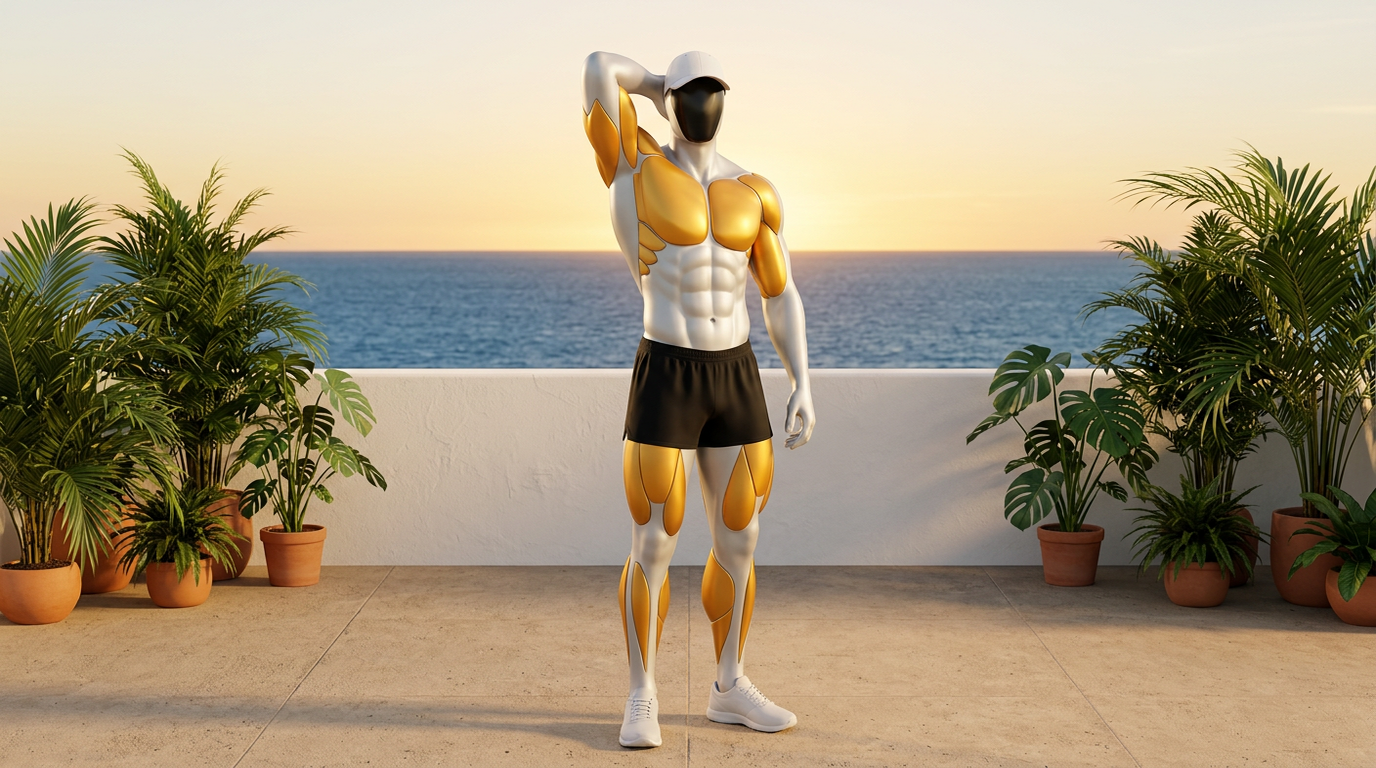
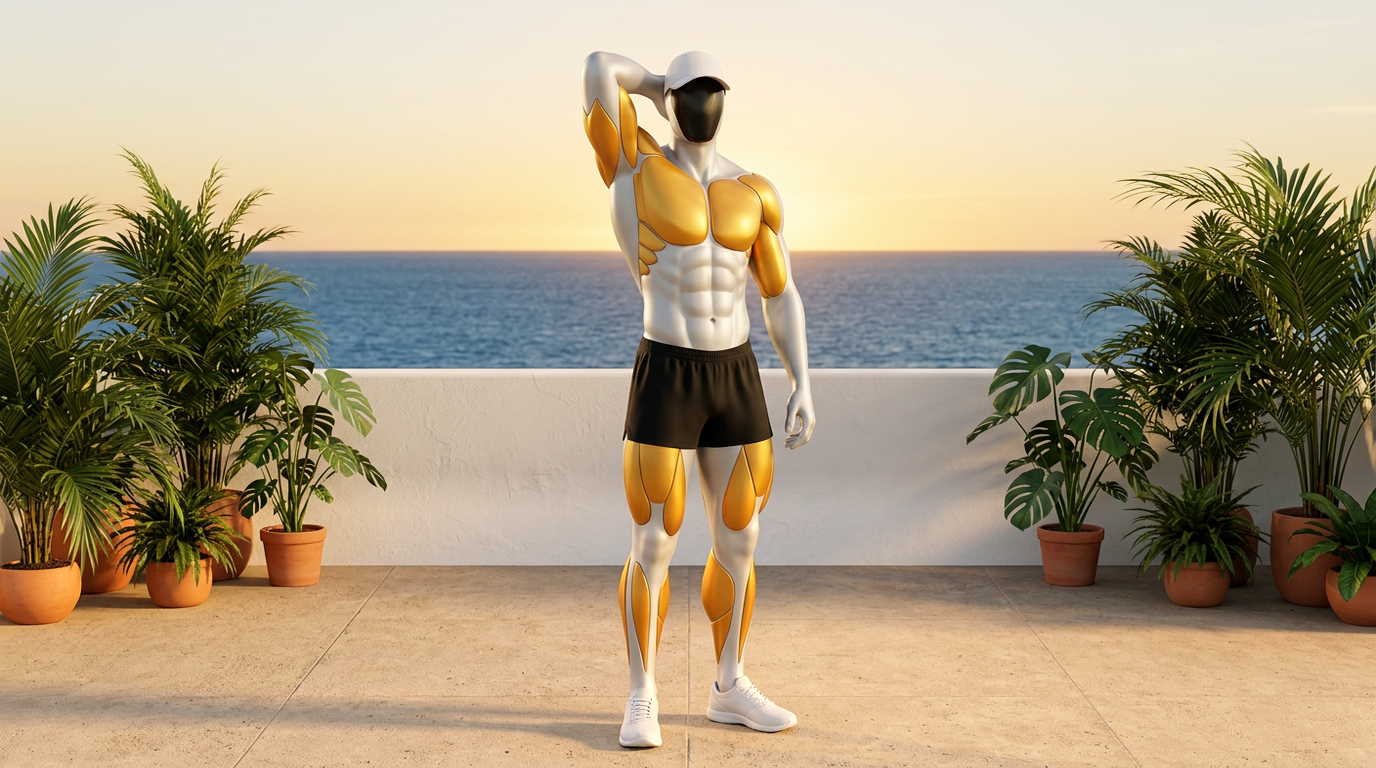
Lot4-01 triceps GIF v1 (mer réajustée) + clés lots 4-5 ; rejets lot3-03 M/B tracés ; galerie + serveur restaurés après reset sandbox
- lot4-01 : trio A/M/B accepté (progression triceps correcte), sol 219-227 bande charte, mer 4,9-8 %
- lot3-02 : clés grisailles supprimées (color-grading abandonné) -> refonte t2i avec spec sable au prochain tour
- lot3-03 M/B : progression non conforme -> REJET-* tracés, refonte au prochain tour
- clés A lot4-02/03 et lot5-01 prêtes ; sandbox reset : repo réaligné sur origin (528b54d) puis ce commit
- serveur galerie relancé port 8090 ; manifeste lot4 ajouté (num 11)

Changed region(s): [[0.0, 0.6562, 1.0, 1.0], [0.6562, 0.6562, 0.7188, 0.7188], [0.625, 0.7188, 0.6562, 0.75]]

diff --git a/yanis-fitness-evolution/animations/_locked/GALERIE-MODULES-1-2.html b/yanis-fitness-evolution/animations/_locked/GALERIE-MODULES-1-2.html
@@ -33,7 +33,8 @@
 <h2>Module 2 — Étirement · lot 1 (pec, dos, lombaires)</h2><div class="grille"><figure><img src="candidats/2026-10-16-etirement-lot1/GIF-01-encadrement-porte-fluide-v3.gif" alt="Étirement dans l'encadrement de porte (pec) — appui = montant de marbre de la terrasse"><figcaption><b>2. Étirement dans l'encadrement de porte (pec) — appui = montant de marbre de la terrasse</b><ul><li>Appui à hauteur d'épaule, coude ~90°, thorax incliné vers l'avant, abdos engagés, 30-45 s.</li><li>Mesuré : sol 227-234, saturation 37-39, mer 2,2-2,7 % (plage acceptable 2,3-2,9 après contrôle visuel : mer présente au fond).</li></ul><span class="etat attente">à valider</span></figcaption></figure><figure><img src="candidats/2026-10-16-etirement-lot1/GIF-02-bras-mur-fluide-v4.gif" alt="Bras tendu contre le mur (pec)"><figcaption><b>3. Bras tendu contre le mur (pec)</b><ul><li>Bras tendu à hauteur d'épaule, paume au montant, rotation du tronc opposée à l'appui, épaule basse, 30 s par côté.</li><li>4 clés (face → bras posé → demi-rotation → rotation complète) ; colonne mesurée alignée au pixel près sur les 4 clés.</li></ul><span class="etat attente">à valider</span></figcaption></figure><figure><img src="candidats/2026-10-16-etirement-lot1/GIF-03-balasana-fluide-v3.gif" alt="Position de l'enfant / Balasana (dos, lombaires)"><figcaption><b>4. Position de l'enfant / Balasana (dos, lombaires)</b><ul><li>Genoux au sol, hanches vers les talons, bras tendus devant, front vers le sol, respiration dans le dos, 30-45 s.</li><li>Mesuré CONFORME : sol 228-235, saturation 42-44, lime ≤ 0,06 %.</li></ul><span class="etat attente">à valider</span></figcaption></figure></div>
 <h2>Module 2 — Étirement · lot 2 (dos, lombaires, épaule avant)</h2><div class="grille"><figure><img src="candidats/2026-10-16-etirement-lot2/GIF-01-suspension-barre-fluide-v2.gif" alt="Suspension à la barre (dos)"><figcaption><b>5. Suspension à la barre (dos)</b><ul><li>Prise un peu plus large que les épaules, coudes tendus, corps gainé, 20-30 s.</li><li>Mesuré CONFORME après réétalonnage du sol sablé : sol_dom 235, saturation 42, lime 0 %.</li></ul><span class="etat attente">à valider</span></figcaption></figure><figure><img src="candidats/2026-10-16-etirement-lot2/GIF-02-torsion-allongee-fluide-v1.gif" alt="Torsion allongée genoux (dos, lombaires)"><figcaption><b>6. Torsion allongée genoux (dos, lombaires)</b><ul><li>Épaules au sol, genoux groupés basculés d'un côté, regard opposé, 30 s par côté.</li><li>Mesuré CONFORME 7/7 images : sol 234, saturation 40,6, lime ≤ 0,06 %.</li></ul><span class="etat attente">à valider</span></figcaption></figure><figure><img src="candidats/2026-10-16-etirement-lot2/GIF-03-mains-croisees-dos-fluide-v3.gif" alt="Mains croisées derrière le dos (épaule avant)"><figcaption><b>7. Mains croisées derrière le dos (épaule avant)</b><ul><li>Doigts entrelacés derrière le dos, bras tendus et éloignés du dos, poitrine ouverte, épaules basses, 30 s.</li><li>Mer 2,4-2,5 % : dans la plage acceptable 2,3-2,9 après contrôle visuel (mer visible au fond).</li></ul><span class="etat attente">à valider</span></figcaption></figure></div>
 <h2>Module 2 — Étirement · lot 3 (épaule latérale, épaule postérieure, biceps)</h2><div class="grille"><figure><img src="candidats/2026-10-16-etirement-lot3/GIF-01-bras-contre-poitrine-fluide-v3.gif" alt="Bras tendu contre la poitrine (épaule latérale)"><figcaption><b>8. Bras tendu contre la poitrine (épaule latérale)</b><ul><li>Bras horizontal à hauteur de poitrine, avant-bras opposé en crochet, traction vers le corps, épaule basse, 30 s par côté.</li><li>Sol 228-242 (dans la bande 219-253), saturation 39-40, mer 2,6-2,7 % (plage acceptable après contrôle visuel).</li></ul><span class="etat attente">à valider</span></figcaption></figure></div>
-<h2>En production (prochains lots, non encore présentés)</h2><div class="grille"><figure><div style="padding:28px;background:#0d1420;color:#8fa1b3;text-align:center">visuel en production — entrée ajoutée dès ses clés contrôlées</div><figcaption><b>—. Lots 3 (suite) à 8 : 13 visuels restants (bras devant main tirée, bras derrière, triceps, fléchisseurs, extenseurs, cobra, pigeon, quadriceps, ischios, adducteurs, mollets)</b><ul><li>Placeholder : chaque visuel restant aura sa propre entrée dès ses clés validées en interne (contrôle visuel + verifier-pose).</li><li>Cadence : 10 générations d'images maximum par tour de travail — la production se poursuit tour après tour.</li></ul><span class="etat attente">en production</span></figcaption></figure></div>
+<h2>Module 2 — Étirement · lot 4 (triceps, taille, hanche)</h2><div class="grille"><figure><img src="candidats/2026-10-16-etirement-lot4/GIF-01-coude-dessus-tete-fluide-v1.gif" alt="Coude dessus de la tête (triceps) — GIF fluide v1"><figcaption><b>11. Coude dessus de la tête (triceps) — GIF fluide v1</b><ul></ul><span class="etat attente">à valider</span></figcaption></figure></div>
+<h2>En production (prochains lots, non encore présentés)</h2><div class="grille"><figure><div style="padding:28px;background:#0d1420;color:#8fa1b3;text-align:center">visuel en production — entrée ajoutée dès ses clés contrôlées</div><figcaption><b>—. Lots restants : lot3-02 (refonte sol), lot3-03 (M/B), lot4-02/03, lots 5-8 — 14 visuels en production</b><ul><li>Placeholder : chaque visuel restant aura sa propre entrée dès ses clés validées en interne (contrôle visuel + verifier-pose).</li><li>Cadence : 10 générations d'images maximum par tour de travail — la production se poursuit tour après tour.</li></ul><span class="etat attente">en production</span></figcaption></figure></div>
 </main>
 </body>
 </html>
